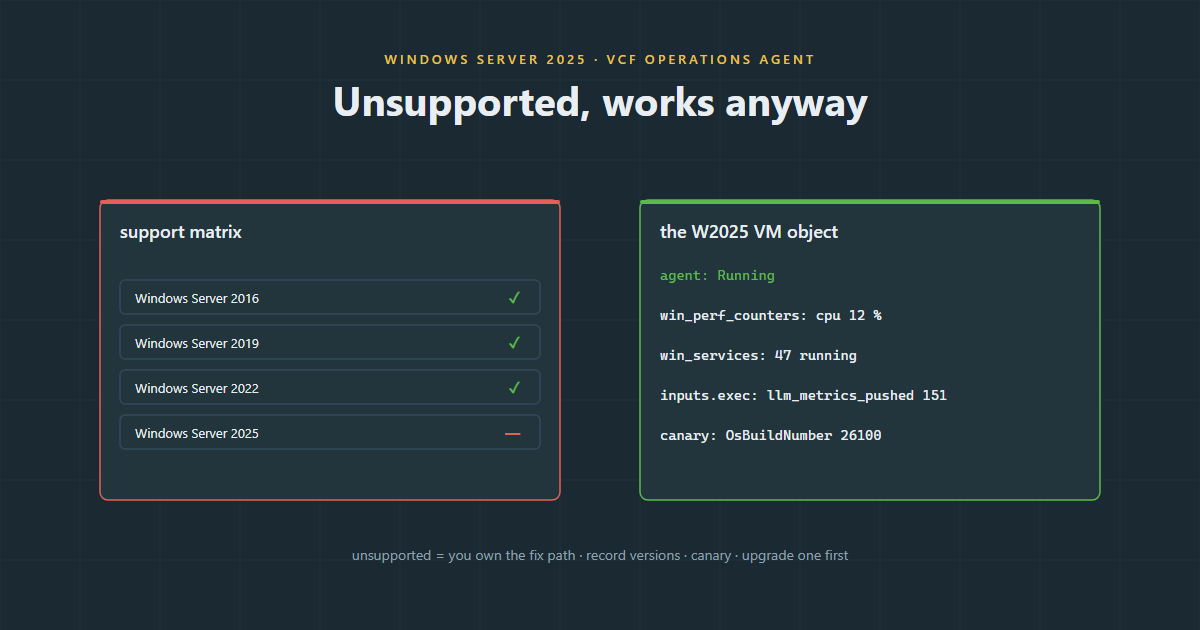
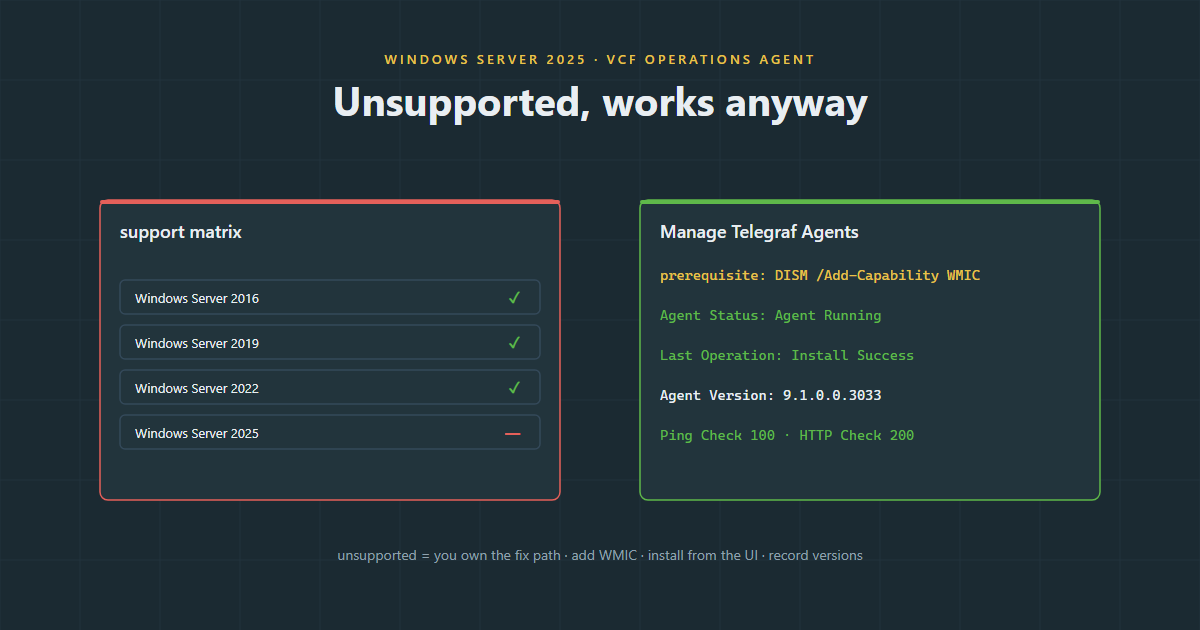
Telegraf: refocus W2025 post on WMIC prerequisite + UI install with installed-status stills; split VKS proxy dependency into its own post (scheduled 23 Sep)

diff --git a/content/posts/telegraf-windows-2025.md b/content/posts/telegraf-windows-2025.md
@@ -2,20 +2,21 @@
 title: "Telegraf on Windows Server 2025: unsupported, works anyway"
 date: 2026-09-16T12:20:00+01:00
 draft: false
-tags: [observability, telegraf, windows, vcf-operations, metrics, support-matrix]
+tags: [observability, telegraf, windows, vcf-operations, metrics, support-matrix, wmic]
 series: ["Observability on VCF"]
 cover:
   image: "/images/post20-hero-telegraf.svg"
-  alt: "The support matrix says no; the metrics say yes"
+  alt: "The support matrix says no; the agent status says Install Success"
   hidden: false
-summary: "The VCF Operations agent support matrix doesn't list Windows Server 2025. The Telegraf agent installs, runs and reports anyway. What 'unsupported' really means, how to deploy it deliberately, what to watch because of it — and the same Telegraf on VKS, where a hidden proxy dependency bit me."
+summary: "The VCF Operations agent support matrix doesn't list Windows Server 2025. Add one missing Windows component (WMIC) and the ordinary UI-driven install works: agent running, checks green, metrics flowing. What 'unsupported' really means, the one prerequisite, and what to watch because of it."
 ---
 
 Two facts, both true:
 
 1. The VCF Operations application-monitoring agent (Telegraf, packaged by
    Broadcom) does not list Windows Server 2025 as a supported OS.
-2. It installs, runs, and reports on Windows Server 2025.
+2. It installs from the VCF Operations UI, runs, and reports on Windows
+   Server 2025 — once one missing Windows component is put back.
 
 This post is about the gap between those, because "unsupported" is a
 statement about *who fixes it when it breaks*, not about whether it works
@@ -32,48 +33,66 @@ to Ops. The Windows APIs those inputs use haven't changed in a decade.
 
 So: it works. You just own it.
 
-## Deploying it deliberately
+## The one prerequisite: put WMIC back
 
-On the [pipeline-built W2025 server](/series/the-windows-build-pipeline/)
-the agent went on from VCF Operations itself — *Applications → Manage
-Telegraf Agents → Install* — and registered as a **Product Managed Agent**,
-version 9.1.0.0.3033. Then the two things that make it *yours*:
+Windows Server 2025 no longer ships the WMI command-line tool, `wmic`.
+It's been deprecated for years and is now a Feature on Demand rather
+than part of the base install. The agent's install bootstrap still calls
+it, so on a stock Server 2025 build the install from Ops does not
+complete.
 
-**1. Record exactly what you're running.** Agent build, Telegraf version,
-OS build — in whatever you use for a CMDB. When the support matrix catches
-up you want to know whether you're on the version they tested.
-
-**2. Add a canary.** Something trivially OS-dependent that will go flat
-first if a Windows update changes an API under the agent. Ops makes this a
-two-minute job with no editing of `telegraf.conf`: *Custom Monitoring →
-Custom Script → Add*, pointing at a script that already exists on the box.
-Mine reads the build number from the registry and prints it as a
-key/value pair:
+Add the capability first, then install:
 
 ```powershell
-# C:\temp\canary.ps1
-$b = (Get-ItemProperty "HKLM:\SOFTWARE\Microsoft\Windows NT\CurrentVersion").CurrentBuildNumber
-"osbuild=$b"        # -> osbuild=26100
+DISM /Online /Add-Capability /CapabilityName:WMIC~~~~
+wmic os get caption   # should now answer
 ```
 
-Prefix `powershell -NoProfile -ExecutionPolicy Bypass -File`, five-minute
-timeout. (Registry, not `Get-ComputerInfo` — that cmdlet takes 20–30
-seconds on Server 2025 and would trip the plugin's own timeout, which is a
-very unhelpful way for a canary to die.)
+(Settings → System → Optional features → Add → "WMIC" does the same thing
+through the UI.) That is the whole workaround. Note it in whatever you use
+for build standards for Server 2025 — it's a one-line prerequisite for the
+agent, and it will keep being one until the bootstrap stops needing it.
 
-![Manage Telegraf Agents: Test-2025 - Agent Running, Product Managed Agent, Install Success, with Ping Check, the w2025-canary custom script and a Services check under it](/images/ui/o3-ops-manage-telegraf-agents-w2025.jpg)
-*The agent list with the row expanded. One Windows Server 2025 VM, agent running, product-managed, both collection ticks green - and under it the agent is doing real work on an OS the matrix doesn't list: a ping check, a service check, and the canary with its full command line. (On the first pass the `Last Operation Status` read "Start Failed" next to a green "Agent Running" - the operation's status check didn't recognise the platform, the service came up anyway. Re-running the operation cleared it. That contradiction is the first thing you own on an unsupported OS.)*
+## The normal install, from the UI
+
+With WMIC present the install path is exactly the supported-OS one, no
+scripts, no manual `telegraf.conf`:
+
+*Operate → Workloads → Applications → Manage Telegraf Agents*, tick the
+VM, *Agent Actions → Install*, supply guest credentials, wait. On the
+[pipeline-built W2025 server](/series/the-windows-build-pipeline/) it
+registered as a **Product Managed Agent**, version 9.1.0.0.3033, with
+`Last Operation Status` reading `Install Success`.
+
+![Manage Telegraf Agents: Test-2025 - Agent Running, Product Managed Agent, Install Success, version 9.1.0.0.3033, both collection ticks green, with a Ping Check and an HTTP Check under Custom Monitoring](/images/ui/o3-ops-manage-telegraf-agents-w2025.jpg)
+*The agent list with the Windows Server 2025 row expanded. Agent Running, product-managed, Install Success, both collection ticks green — and under Custom Monitoring a Ping Check and an HTTP Check configured from the same screen, no config file touched.*
 
 ![The Windows OS on Windows 2025 object: one object, Normal, no alerts, with Custom Script, Ping Check and Services children and live CPU/memory properties](/images/ui/o9-ops-w2025-windows-os-summary.jpg)
-*The object the agent created, as Ops sees it: green, no alerts, CPU and memory properties populated, and three child objects for the checks. This is the picture that matters - not the install dialog.*
+*The object the agent created, as Ops sees it: green, no alerts, CPU and memory properties populated. This is the picture that matters — not the install dialog.*
 
 ![Ping Check metrics for the W2025 agent: Availability flat at 100 and Average Response Time in a steady band across a three-hour window](/images/ui/o10-ops-w2025-ping-check-availability.jpg)
-*And the proof the agent is doing more than existing: the Ping Check it runs from Windows Server 2025, availability flat at 100 across the morning, response time steady at a couple of milliseconds. Metrics arriving on schedule from an OS the matrix doesn't list.*
+*And the proof it's doing work rather than just existing: a Ping Check run from the Server 2025 guest, availability flat at 100 across the morning, response time steady at a couple of milliseconds.*
 
 ![The VM object in Ops: Microsoft Windows Server 2025 (64-bit), tools running](/images/ui/o2-ops-w2025-vm-summary.jpg)
 
 ![Windows OS on Windows 2025: AgentManagedType = Product Managed, Tags|source = Windows_2025](/images/ui/o1-ops-w2025-agent-metrics.jpg)
-*The "Windows OS on Windows 2025" child object the agent created, with `Telegraf Availability` in the metric tree and `AgentManagedType` reading Product Managed.*
+*The "Windows OS on Windows 2025" child object, with `Telegraf Availability` in the metric tree and `AgentManagedType` reading Product Managed.*
+
+## Then make it yours
+
+Two small things turn "it happens to work" into something you can run:
+
+**Record exactly what you're running.** Agent build, Telegraf version, OS
+build, and the WMIC prerequisite — in whatever you use for a CMDB. When the
+support matrix catches up you want to know whether you're on the version
+they tested.
+
+**Give it a check that will go flat first.** The Ping and HTTP checks
+above are configured from the agent row in Ops (*Custom Monitoring*), and
+a *Custom Script* entry on the same screen can run anything on the box.
+Point one at something trivially OS-dependent and alert on its *absence*:
+if a Windows update changes an API under the agent, that line stops before
+anything else does.
 
 ## What to watch, *because* it's unsupported
 
@@ -81,57 +100,43 @@ very unhelpful way for a canary to die.)
   Take a snapshot before pushing an agent upgrade to the W2025 fleet;
   upgrade one first.
 - **Windows cumulative updates.** Performance counter names are stable;
-  provider GUIDs occasionally aren't. Watch the canary after Patch Tuesday.
+  provider GUIDs occasionally aren't. Watch your canary check after Patch
+  Tuesday.
+- **WMIC on new builds.** Any image or pipeline that produces Server 2025
+  needs the capability added, or the next install will fail the way the
+  first one did.
 - **Service account and WinRM hardening.** W2025 tightens defaults; if the
-  install bootstrap fails it's almost always WinRM/TLS, not the agent.
+  install bootstrap fails and WMIC is present, it's almost always WinRM/TLS,
+  not the agent.
 - **Don't file cases on it.** Reproduce on a supported OS first. That's
   the deal you made.
-
-## The same Telegraf on VKS — and its hidden dependency
-
-On VKS the Telegraf package has a dependency that isn't in its README:
-with `isMetricProxyConfigured: true` it mounts two secrets
-(`metrics-proxy-tls-config`, `metrics-proxy-http-config`) that **only the
-Supervisor Management Proxy service propagates** into guest clusters. Without
-the proxy installed on the supervisor, every Telegraf pod sits in
-`ContainerCreating` / `FailedMount` forever, and nothing says why.
-
-Install the proxy supervisor service, and the chain is retroactive:
-`SecretExport` in the guest's `kube-system` → `SecretImport` into
-`tanzu-system-telegraf` → pods Running. (The `PackageInstall` needed an
-annotation bump to clear a stale `ReconcileFailed` backoff.)
-
-Then the second trap: Telegraf's output URL came out as
-`https://supervisor-management-proxy.default.svc.:10093` — domainless and
-unresolvable — because the cluster was created without
-`clusterNetwork.serviceDomain`. Immutable. A CoreDNS `rewrite` rule
-patched the live cluster; every new cluster gets `serviceDomain:
-cluster.local` in its spec.
-
 
 ## Why this matters outside the lab
 
 The practical lesson for customers is about **how** to adopt something the
 vendor hasn't blessed yet. New operating systems arrive before support
 matrices catch up, and "wait" is often not an option. The approach here —
-run it, record exactly what you're running, add a canary that detects
-breakage early, upgrade one node first — is how an operations team gets
-Windows Server 2025 monitored on day one without taking on hidden risk.
-The same discipline applies to any unsupported-but-working combination.
+find the real blocker (one missing Windows component, not the agent), use
+the standard install path, record exactly what you're running, add a check
+that detects breakage early, upgrade one node first — is how an operations
+team gets Windows Server 2025 monitored on day one without taking on
+hidden risk. The same discipline applies to any unsupported-but-working
+combination.
 
 ## Rules learned
 
 - "Unsupported" = *you* own the fix path. Decide that consciously, record
-  versions, add a canary, upgrade one node first.
+  versions, add a canary check, upgrade one node first.
+- Server 2025 ships without WMIC; the agent bootstrap needs it. Add the
+  capability first and the ordinary UI install works.
 - The Windows inputs aren't version-gated; W2025 runs the agent fine.
   Alert on metric **absence**, not just thresholds.
-- On VKS, Telegraf **hard-depends on the Supervisor Management Proxy**
-  when the metric proxy flag is set; `FailedMount` on two secrets is the
-  tell.
-- Set `serviceDomain` at cluster create. Every add-on that builds a
-  service URL will thank you.
+- Configure checks from the agent row in Ops; leave `telegraf.conf` alone
+  so upgrades from Ops stay clean.
 
-*Previously: [fluent-bit two ways](/posts/fluent-bit-two-ways/).*
+*Previously: [fluent-bit two ways](/posts/fluent-bit-two-ways/). Next in
+the [Observability on VCF](/series/observability-on-vcf/) series: the
+same Telegraf on VKS, and the dependency that isn't in its README.*
 
 ---
 *Lab environment; opinions my own. Support status as observed at time of

diff --git a/content/posts/telegraf-vks-management-proxy.md b/content/posts/telegraf-vks-management-proxy.md
@@ -1,0 +1,109 @@
+---
+title: "Telegraf on VKS: the dependency that isn't in the README"
+date: 2026-09-23T06:10:00+01:00
+draft: false
+tags: [observability, telegraf, vks, kubernetes, vcf-operations, supervisor-services, coredns]
+series: ["Observability on VCF"]
+cover:
+  image: "/images/post24-hero-telegraf-vks.svg"
+  alt: "Telegraf pods stuck in FailedMount until the Supervisor Management Proxy exists; then a domainless service URL until serviceDomain is set"
+  hidden: false
+summary: "The VKS Telegraf package mounts two secrets that only the Supervisor Management Proxy service propagates into guest clusters. Without it every pod sits in FailedMount forever and nothing says why. Install the proxy and the chain heals itself — then a second trap: a domainless output URL on any cluster created without serviceDomain."
+---
+
+The [Windows half of this series](/posts/telegraf-windows-2025/) was a
+story about an agent that works on an OS the vendor hasn't listed. This
+one is the opposite: a package on a fully supported platform that does
+nothing at all, silently, because of a dependency its documentation
+doesn't mention.
+
+## The symptom
+
+Install the Telegraf package on a VKS cluster with the metric proxy flag
+set — `isMetricProxyConfigured: true`, which is what you want if the
+metrics are going to VCF Operations — and every Telegraf pod stays in
+`ContainerCreating`. Describe one and the reason is `FailedMount`: two
+secrets don't exist.
+
+```
+MountVolume.SetUp failed for volume "metrics-proxy-tls-config"  : secret not found
+MountVolume.SetUp failed for volume "metrics-proxy-http-config" : secret not found
+```
+
+Nothing creates them. The package doesn't. The cluster doesn't. The
+PackageInstall reports `ReconcileFailed` and backs off, and that's where
+it stays.
+
+## The dependency
+
+Those two secrets are **published by the Supervisor Management Proxy**,
+a Supervisor Service you install on the supervisor, not in the guest
+cluster. It exports the proxy's TLS and HTTP config into every guest
+cluster's `kube-system` as a `SecretExport`; a matching `SecretImport`
+in `tanzu-system-telegraf` pulls them across. No proxy on the supervisor,
+no export, no secrets, no pods.
+
+```
+Supervisor Management Proxy (Supervisor Service)
+  └─ SecretExport  (guest kube-system)
+       └─ SecretImport  (guest tanzu-system-telegraf)
+            └─ metrics-proxy-tls-config + metrics-proxy-http-config
+                 └─ Telegraf pods mount them → Running
+```
+
+The fix is one install on the supervisor, and it's retroactive: once the
+proxy exists the exports appear, the imports follow, and pods that had
+been failing to mount for a day come up on their own. The only nudge
+needed was an annotation bump on the PackageInstall to clear the stale
+`ReconcileFailed` backoff.
+
+## The second trap: a URL with no domain
+
+With pods running, Telegraf still wasn't delivering. Its output URL had
+come out as:
+
+```
+https://supervisor-management-proxy.default.svc.:10093
+```
+
+Note the trailing dot and nothing after `svc`. The package builds that URL
+from the cluster's service domain, and this cluster had been created
+without `clusterNetwork.serviceDomain` — so the domain was empty. That
+field is immutable after create.
+
+Two fixes, both applied:
+
+- **Live cluster:** a CoreDNS `rewrite` rule that maps the domainless name
+  onto the real one. Ugly, effective, documented in the cluster's notes.
+- **Every new cluster:** `serviceDomain: cluster.local` in the spec. Every
+  add-on that constructs a service URL is assuming it's there.
+
+## Why this matters outside the lab
+
+Both traps have the same shape: a platform component that fails with a
+generic symptom (`FailedMount`, a name that won't resolve) whose cause is
+a decision made somewhere else — a service not installed on the
+supervisor, a field left blank at cluster create. For a customer that
+means two things. Metrics from Kubernetes workloads into VCF Operations
+are a *platform* feature, so the supervisor has to be built for it, not
+just the cluster. And cluster specs need a baseline that includes the
+fields add-ons assume, because the immutable ones can't be fixed later.
+This is exactly the kind of thing a standard cluster class and a
+supervisor build checklist exist to encode.
+
+## Rules learned
+
+- On VKS, the Telegraf package **hard-depends on the Supervisor
+  Management Proxy** whenever the metric proxy flag is set. `FailedMount`
+  on two `metrics-proxy-*` secrets is the tell.
+- The dependency heals retroactively: install the proxy, bump the
+  PackageInstall annotation, wait.
+- Set `serviceDomain` at cluster create. It's immutable, and every add-on
+  that builds a service URL will assume it.
+- When a package "does nothing", describe the pod, not the package.
+
+*Previously: [Telegraf on Windows Server 2025](/posts/telegraf-windows-2025/).
+More in the [Observability on VCF](/series/observability-on-vcf/) series.*
+
+---
+*Lab environment; opinions my own.*
